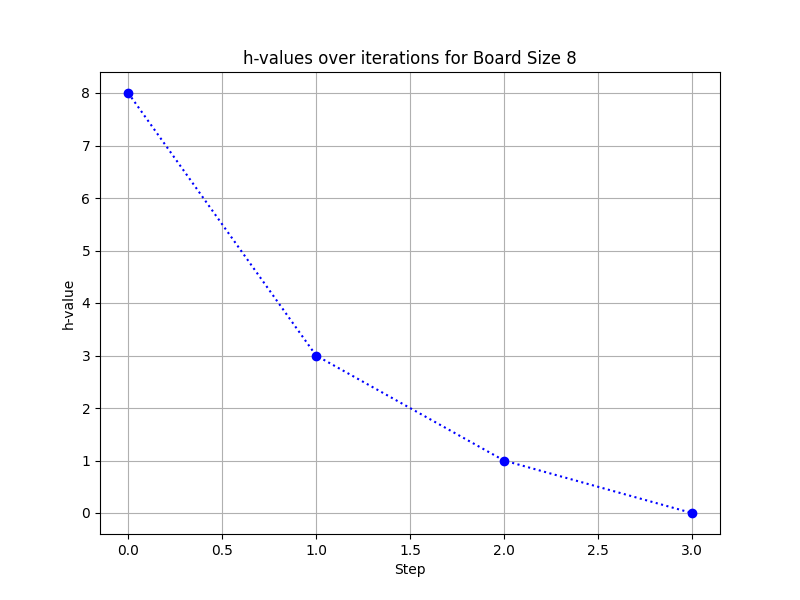
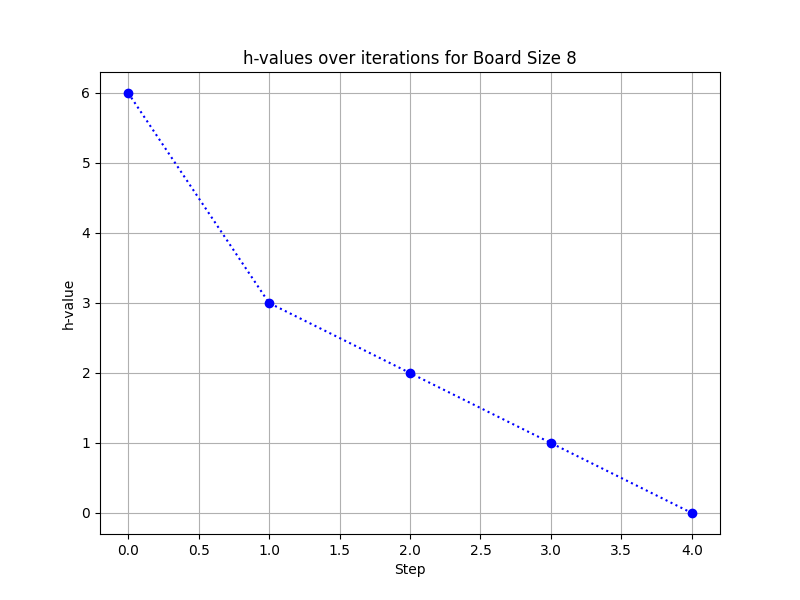
Simulated annealing improved

diff --git a/tp5-busquedas-locales/code/main.py b/tp5-busquedas-locales/code/main.py
@@ -42,7 +42,7 @@ def hill_climb_success_rate_test(
 
 def simulated_annealing_test(board):
     print("RUNNING: SIMULATED ANNEALING")
-    result: LocalSearchResult = simulated_annealing(board, maximum_states=60)
+    result: LocalSearchResult = simulated_annealing(board, maximum_states=600)
 
     print(f"Traversed {result.traversed_states} states in {result.time_taken} seconds")
 
@@ -100,11 +100,11 @@ def _save_results(results, queen_counts):
 def test_and_save():
 
     queen_counts = [4, 8, 10, 12, 15]
-
+    maximum_states = 1000
     algorithms = {
-        "hill_climb": lambda board: hill_climb(board, maximum_states=100, maximum_shoulder_iterations=10),
-        "random_restart_hill_climb": lambda board: random_restart_hill_climb(board, maximum_states=100, maximum_shoulder_iterations=10),
-        "simulated_annealing": lambda board: simulated_annealing(board, maximum_states=100, maximum_shoulder_iterations=10)
+        "hill_climb": lambda board: hill_climb(board, maximum_states, maximum_shoulder_iterations=10),
+        # "random_restart_hill_climb": lambda board: random_restart_hill_climb(board, maximum_states, maximum_shoulder_iterations=10),
+        "simulated_annealing": lambda board: simulated_annealing(board, maximum_states, maximum_iterations=maximum_states)
     }
 
     results = {algorithm_name: [] for algorithm_name in algorithms.keys()}
@@ -115,10 +115,10 @@ def test_and_save():
             board = ChessBoardState(queen_count)
 
             for algorithm_name in algorithms:
-
-                    algo_func = algorithms[algorithm_name]
-                    result: LocalSearchResult = algo_func(board)
-                    results[algorithm_name].append(result)
+                print(f"Executing {algorithm_name} in board of size {queen_count}")
+                algo_func = algorithms[algorithm_name]
+                result: LocalSearchResult = algo_func(board)
+                results[algorithm_name].append(result)
 
     _save_results(results, queen_counts)
 

diff --git a/tp5-busquedas-locales/code/local_search_algo/simulated_annealing/simulated_annealing.py b/tp5-busquedas-locales/code/local_search_algo/simulated_annealing/simulated_annealing.py
@@ -5,21 +5,21 @@ import random
 import time
 import math
 
+
 def schedule(t, cooling_rate) -> float:
-    # Slower cooling schedule
-    # return max(1.0 / (math.log(t + 1) * cooling_rate), 1e-10)
-    return 1.0 / (t * cooling_rate)
+    return max(1.0 / (math.log(t + 1) * cooling_rate), 1e-10)
+
 
 def simulated_annealing(
         initial_board: ChessBoardState,
         maximum_states: int = 30,
-        maximum_shoulder_iterations: int = 10) -> LocalSearchResult:
+        maximum_iterations: int = 200) -> LocalSearchResult:
 
     search_result = LocalSearchResult()
     t0 = time.time()
     current_board = initial_board
-
-    for t in range(1, maximum_states + 1):
+    T = 100
+    for t in range(1, maximum_iterations + 1):
 
         if current_board.cached_threats == 0:
             break
@@ -28,17 +28,22 @@ def simulated_annealing(
         successor_board = random_successor_chess_board(current_board)
 
         delta_e = successor_board.cached_threats - current_board.cached_threats
-
         next_board = None
-        T = schedule(t, 0.5)
-
+        # T = 1.0 / (t * 0.2)#schedule(t, 0.5)
+        # T = pow(10, 1.4) / t#schedule(t, 0.5)
+        # T = 23 / t
+        T = T * 0.95
+        # T = schedule(t, 0.5)
+        
         # When successor gets closer to local minimum or same (shoulders)
         if delta_e <= 0.0:
             next_board = successor_board
         else:
             probability = math.exp(-delta_e / T)
-            # print(T, probability)
-            if random.random() < probability:
+            print(probability)
+            r = random.random()
+            # print(f"T: {T}, probability: {probability}")
+            if r < probability:
                 next_board = successor_board
             else:
                 next_board = current_board
